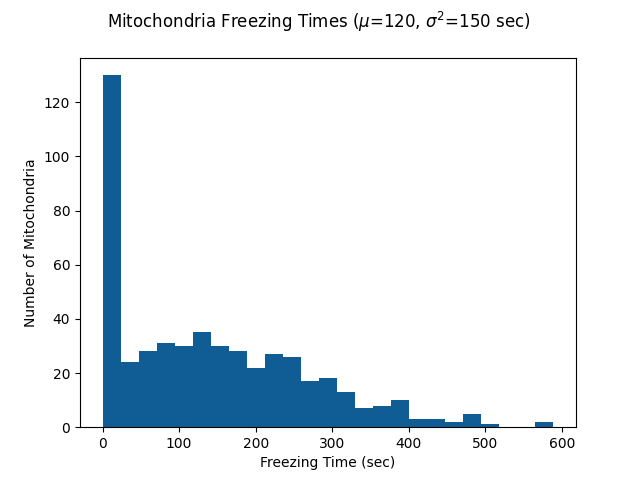
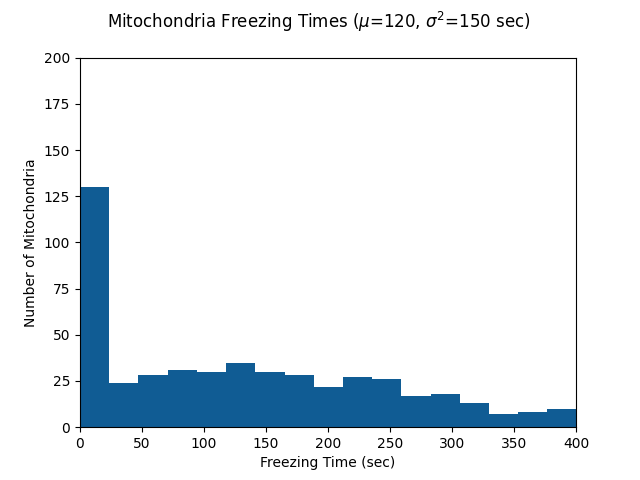
updating mito histogram plotting tool

diff --git a/plotting.py b/plotting.py
@@ -6,6 +6,7 @@ import matplotlib.patches as mpatches
 import seaborn as sns
 from elephant.spike_train_generation import homogeneous_poisson_process
 from quantities import Hz, s, ms
+from functions import get_spike_trains
 import util
 
 pd = util.params_dict
@@ -29,20 +30,10 @@ def spike_plot(pd, **kwargs):
 		if not os.path.exists(savedir):
 			os.makedirs(savedir)
 
-	day_seconds = pd['day_seconds']
-	
-	spiketrain_list = []
-	plot_rasters = []
 	print(f'Plotting Spike Rasters for {event_hz} Hz Inputs')
-	for i in range(num_runs):
-		day_holder = []
-		for j in range(len(event_hz)):
-			day = homogeneous_poisson_process(rate=event_hz[j]*Hz,
-											  t_start=(j*pd['day_seconds'])*s+0.01*s,
-											  t_stop=(j+1)*pd['day_seconds']*s,
-											  as_array=True)
-			day_holder = np.concatenate([day, day_holder])
-		spiketrain_list.append(day_holder)
+
+	spiketrain_list = get_spike_trains(num_runs, event_hz, freq_block=pd['day_seconds'])
+
 
 	color_list = [tuple((np.array(x)+0.85)%1) for x in sns.color_palette("Spectral", num_runs)]
 
@@ -78,19 +69,20 @@ def spike_plot(pd, **kwargs):
 		plt.suptitle('Spike Raster Plot for {} Hz'.format(event_hz[0]), fontsize=12)
 	
 		if savefig:
-			plt.savefig(f'data/SpikeRasters/Raster{event_hz[0]}.{format}'.format(), format=format)
+			plt.savefig(f'./data/SpikeRasters/Raster{event_hz[0]}.{format}', format=format)
 
 	if showfig:
 		plt.show()
 	plt.close()
 
-def mito_stop_hist(pd, **kwargs):
+def mito_stop_hist(pd, n_bins=25, **kwargs):
 	# make example histogram of recovery times
 	recov_means = kwargs.get('recov_times', pd['recov_means'])
 	savedir     = kwargs.get('savedir', './data/Histograms/')
 	savefig     = kwargs.get('savefig', True)
 	showfig     = kwargs.get('showfig', False)
 	format      = kwargs.get('format','png')
+	fixed_scale = kwargs.get('fixed_scale', True)
 
 	if savefig:
 		if not os.path.exists(savedir):
@@ -111,13 +103,15 @@ def mito_stop_hist(pd, **kwargs):
 		
 		plt.figure()
 
-		plt.hist(recov_times, bins=25, color = color_list[-1])
+		plt.hist(recov_times, bins=n_bins, color = color_list[-1])
 		
+		if fixed_scale:
+			plt.ylim([0,200])
+
 		plt.ylabel('Number of Mitochondria')
 		plt.xlabel('Freezing Time (sec)')
-		
 		plt.suptitle('Mitochondria Freezing Times ($\mu$={}, $\sigma^2$={} sec) '.format(mean_stop, int(pd['recov_sd'])))
-		#plt.xlim([0,2000])
+
 		if savefig:
 			plt.savefig(savedir+f'Mito_freezing_histogram_{mean_stop}sec.{format}', format=format)
 		if showfig:

diff --git a/main.py b/main.py
@@ -29,4 +29,4 @@ def main(pd, plot_stop_times=False,plot_all_spike_freq=False,plot_each_spike_fre
 	pt.plot_pct_mm(data)
 
 if __name__ == '__main__':
-	main(pd)
+	main(pd, plot_stop_times=True,plot_all_spike_freq=False,plot_each_spike_freq=False)
